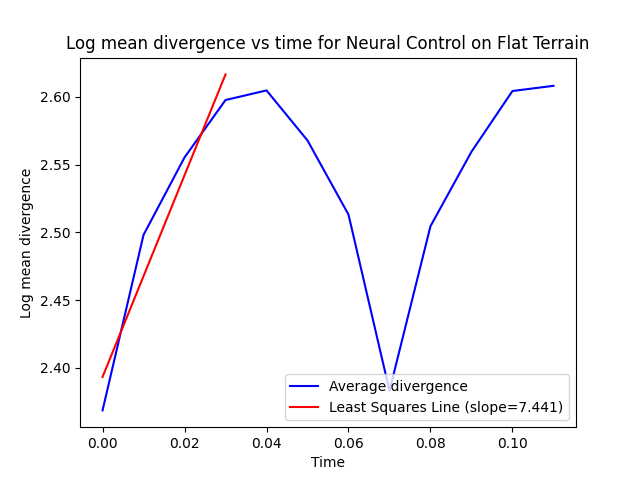
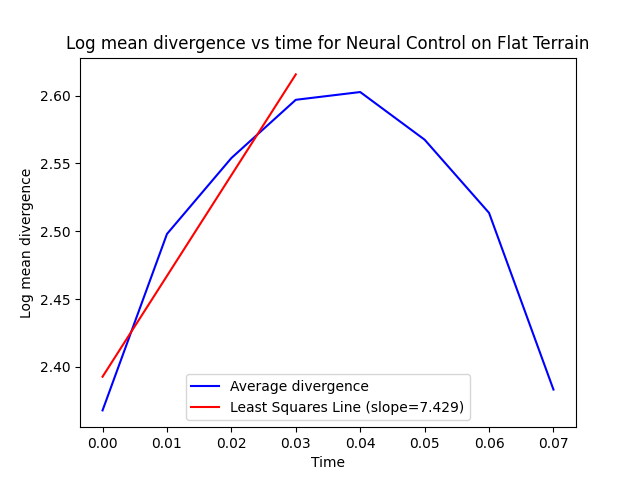
edited plotting final

diff --git a/lyapunov_final.py b/lyapunov_final.py
@@ -107,7 +107,7 @@ def exponent(tau, m, min_steps, epsilon, plotting_0, plotting_final, delta_t, fo
     min_steps = int(min_steps) + 1 if min_steps % 1 != 0 else int(min_steps)  # Round up the minimum number of steps
     t_0 = 0  # Set the starting index for plotting
     t_f = min_steps   # Set the ending index for plotting
-    plotting_final = 3 * min_steps  # Set the final index for plotting
+    plotting_final = 2 * min_steps  # Set the final index for plotting
 
     times, data = rosenstein.lyapunov(data, tau, m, min_steps, plotting_0, plotting_final, delta_t)  # Calculate the Lyapunov exponents
 
